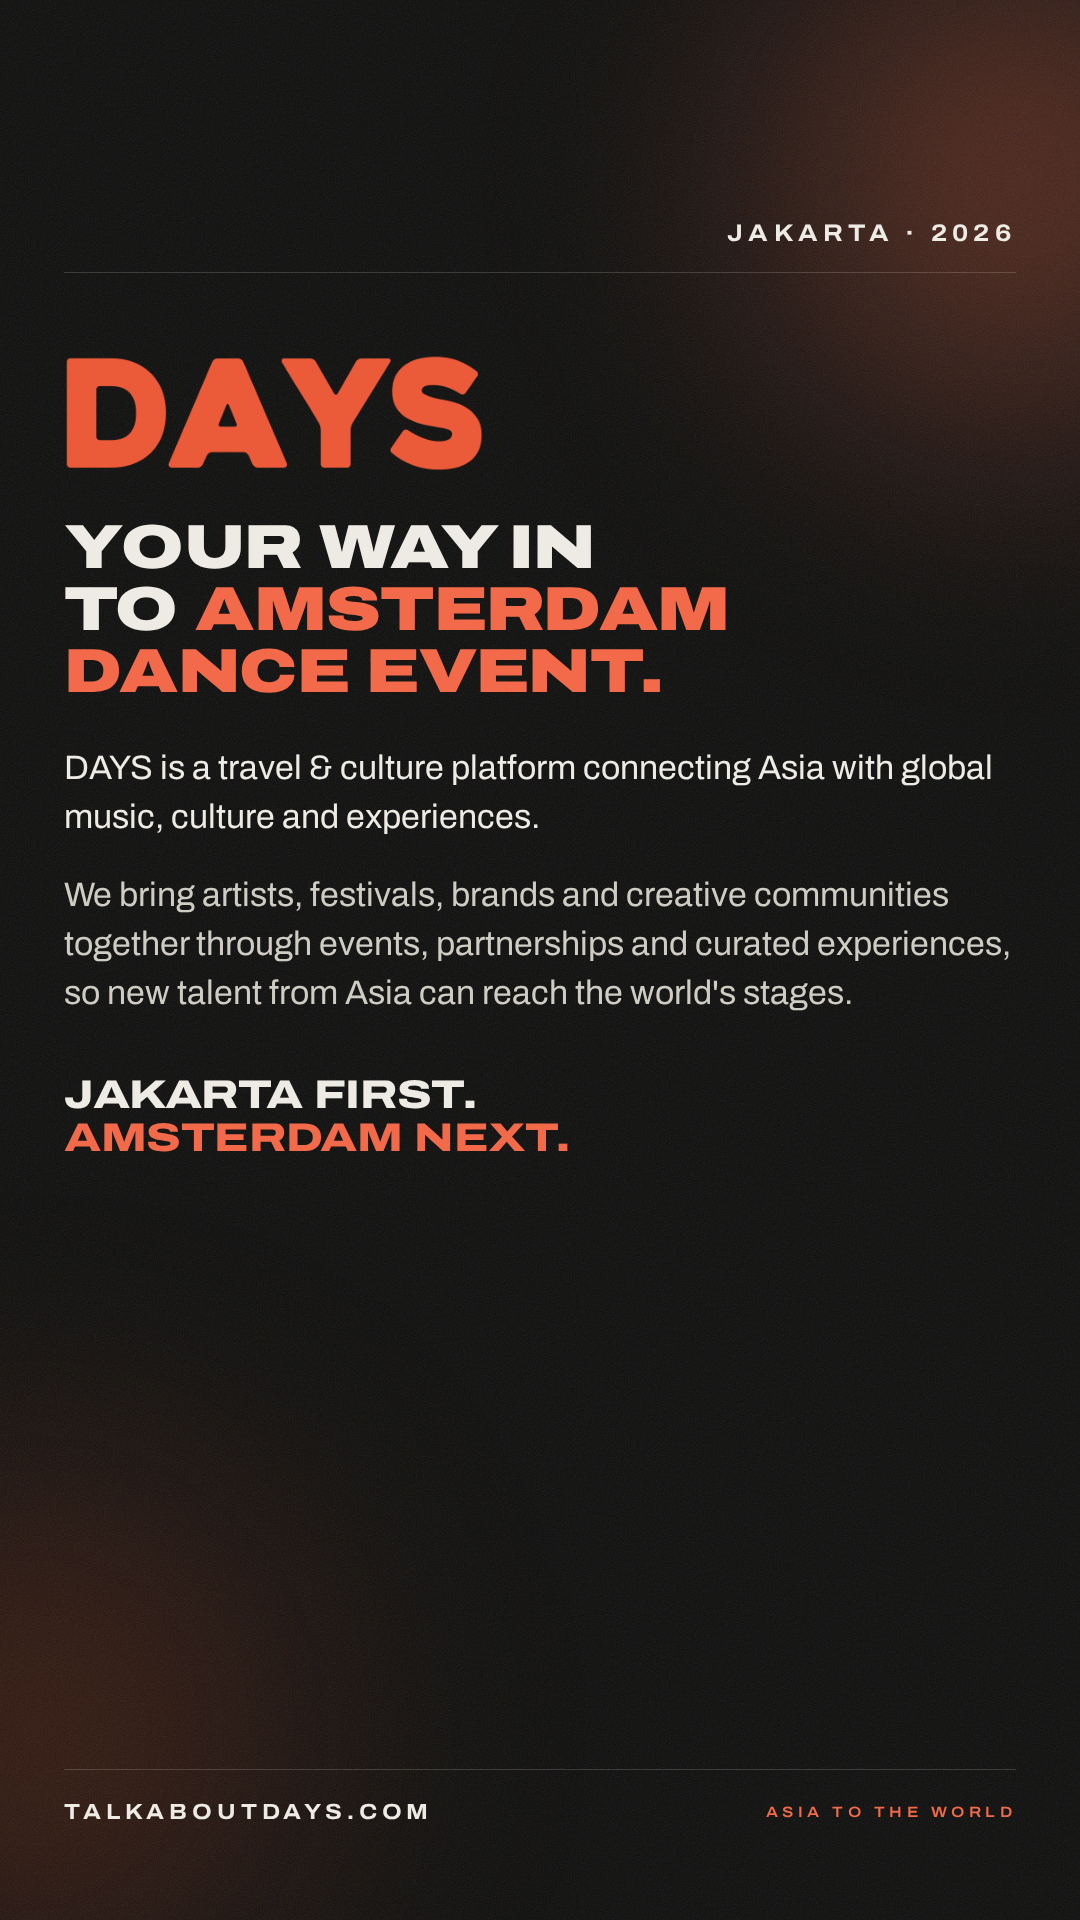
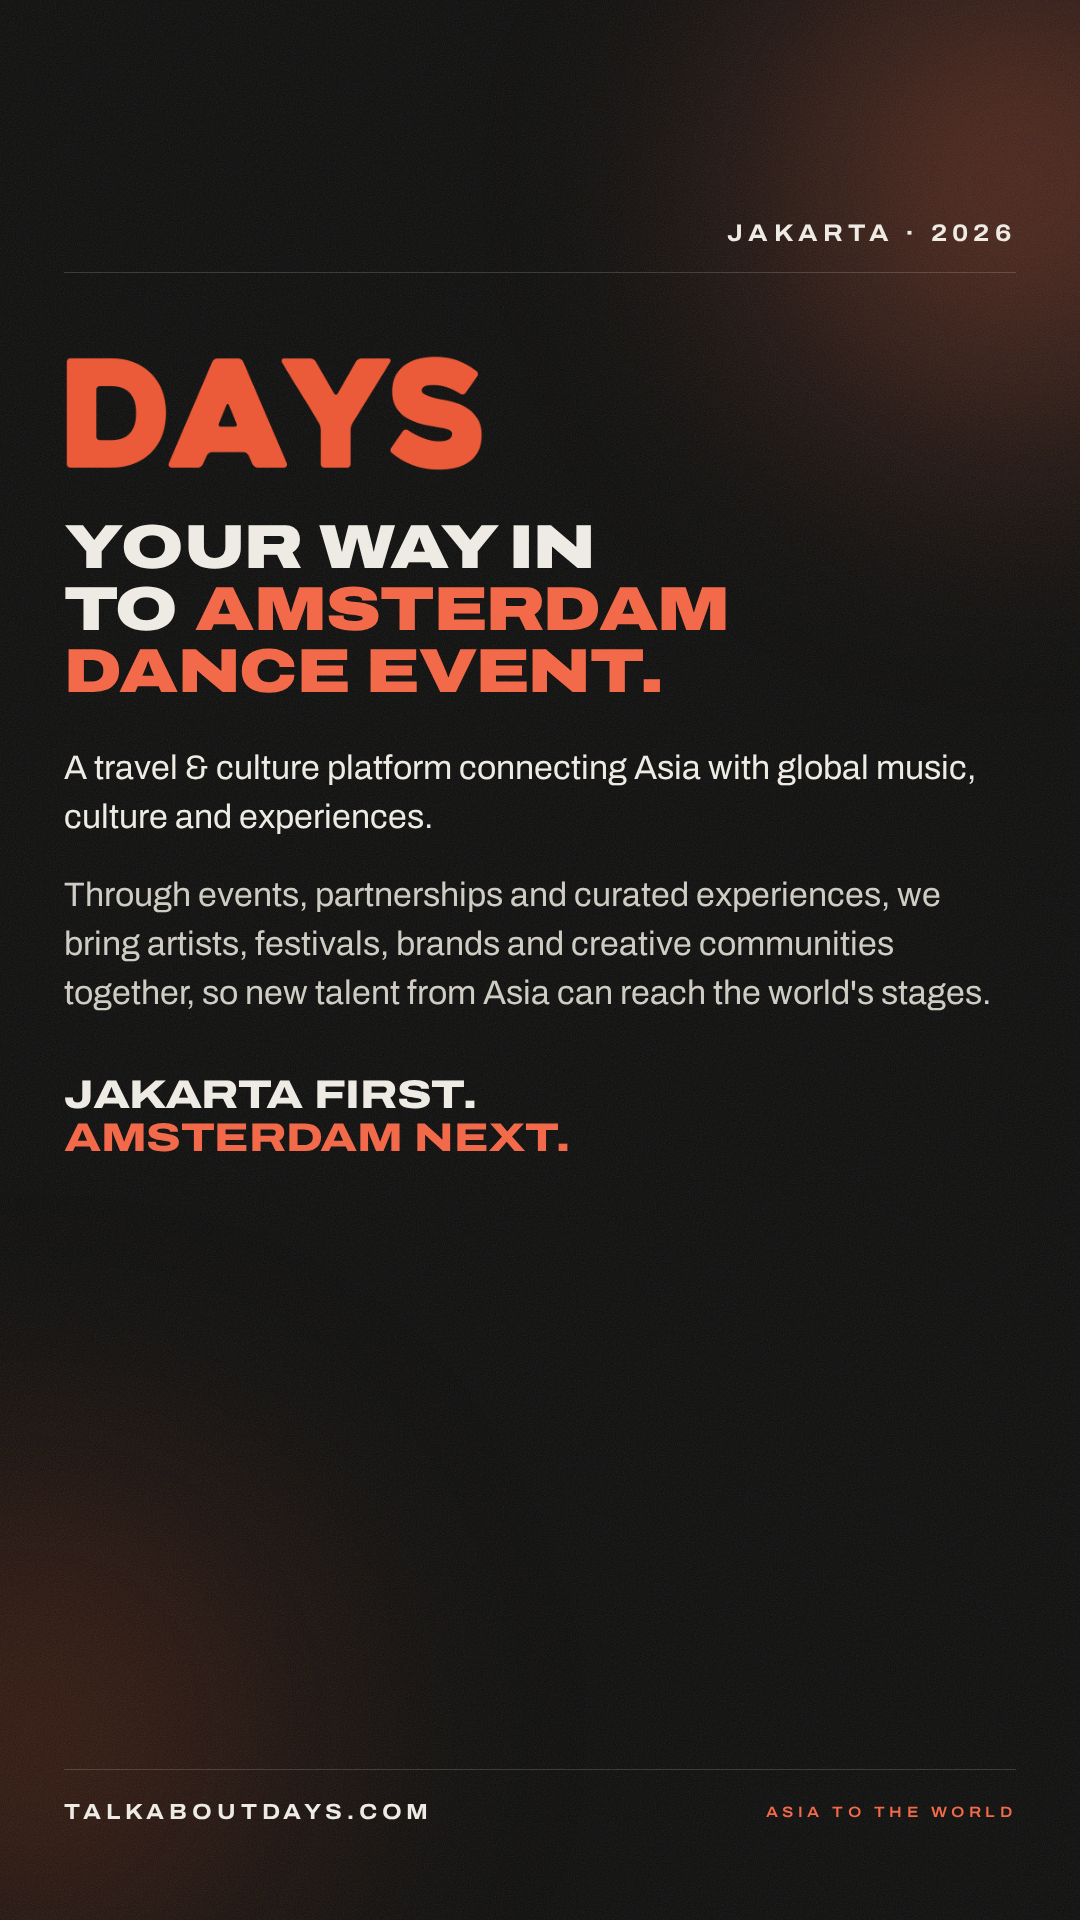
ADE DAYS page: go with option A, drop repeated 'DAYS' from the text
Claude-Session: https://claude.ai/code/session_01Sc5gF2HRFqjLpMQDrx7aqZ

Changed region(s): [[0.0611, 0.375, 0.9167, 0.5312]]

diff --git a/events/ade-community-talks-2026/04-days.html b/events/ade-community-talks-2026/04-days.html
@@ -15,8 +15,8 @@
   <img src="../../assets/days-wordmark.png" alt="DAYS" style="display:block;height:120px;margin-top:80px">
   <div class="display" style="font-size:62px;line-height:1;margin-top:44px">Your way in<br>to <em>Amsterdam<br>Dance Event.</em></div>
 
-  <div class="body" style="margin-top:40px">DAYS is a travel &amp; culture platform connecting Asia with global music, culture and experiences.</div>
-  <div class="body" style="margin-top:28px;color:var(--soft)">We bring artists, festivals, brands and creative communities together through events, partnerships and curated experiences, so new talent from Asia can reach the world's stages.</div>
+  <div class="body" style="margin-top:40px">A travel &amp; culture platform connecting Asia with global music, culture and experiences.</div>
+  <div class="body" style="margin-top:28px;color:var(--soft)">Through events, partnerships and curated experiences, we bring artists, festivals, brands and creative communities together, so new talent from Asia can reach the world's stages.</div>
 
   <div class="display" style="font-size:40px;font-weight:800;margin-top:56px">Jakarta first.<br><em>Amsterdam next.</em></div>
 

diff --git a/events/ade-community-talks-2026/README.md b/events/ade-community-talks-2026/README.md
@@ -9,7 +9,6 @@
 | `02-topics.png` | Story (1080 × 1920): the seven talk topics |
 | `03-scene.png` | Story (1080 × 1920): why the event exists, bridging Indonesia's electronic music scene |
 | `04-days.png` | Story (1080 × 1920): about DAYS |
-| `04-days-b.png` | Option B of the DAYS page: ADE headline, DAYS logo inline in the text, no "About" label |
 | `*.html`, `modern.css` | Source for the three pages |
 | `img/` | Speaker photos, partner logos (light versions for the dark background) |
 
